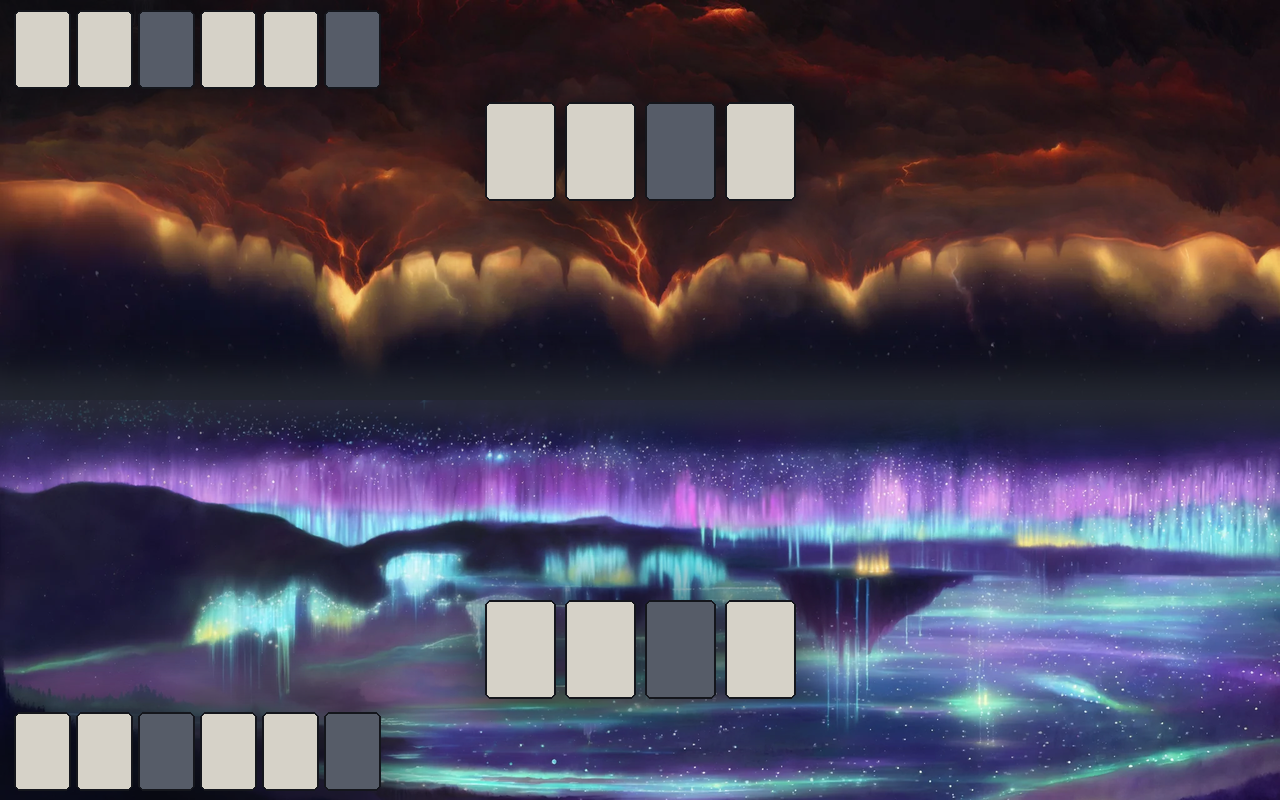
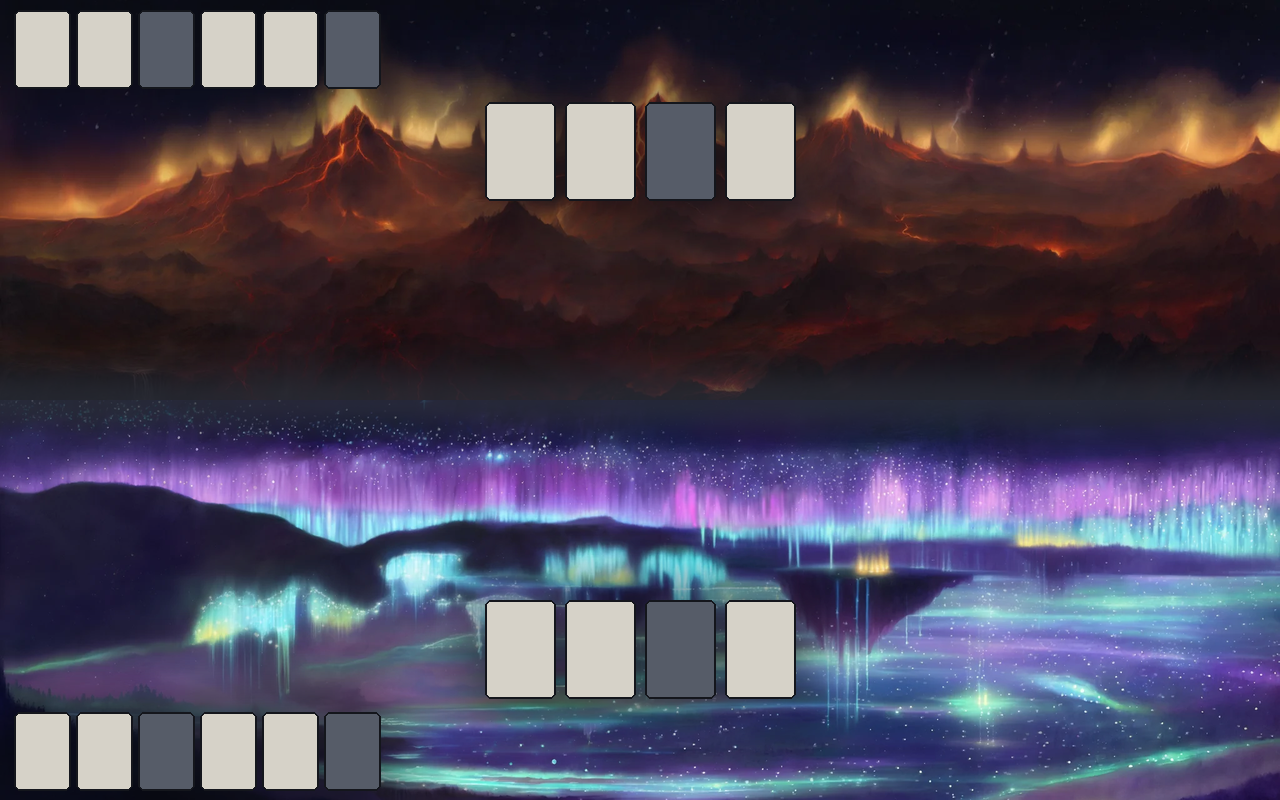
PC: pack-v3 live (half-board halves), screenshots

Changed region(s): [[0.0, 0.0, 1.0, 0.5], [0.4688, 0.4375, 0.5, 0.4688]]

diff --git a/HEARTBEAT.md b/HEARTBEAT.md
@@ -246,3 +246,10 @@ Started tonight from the final-r2 masters: desktop halves cut 16:5 (2048x640 + 2
 
 ### 2026-10-07 00:40 — PC: pack-v3 progress — island halves done; one spec question (pack size cap)
 Island's desktop halves (16:5, 2048x640 + 4096x1280) and phone halves (4:5 by outpainting, 1024x1280 + 2x) exist; all five biomes' desktop halves and re-cut loops exist; forest/mountain/swamp/plains phone halves are rendering (~10 min each). Early screenshots in `art/pack-v3/` (NOTE: the opponent half in these first mock-ups is flipped vertically by mistake — the shipped layout is both halves UPRIGHT with the mist seam, per §5; corrected mock-ups follow). **Size:** v2 is 23 MB; the halves add ~4-5 MB per biome, so v3 lands near 40 MB with a 1536x1920 phone @2x (45-50 MB at 2048x2560). Please say the cap for 1.5 (I am targeting ~40 MB, about 8 MB per biome as you suggested). Phone halves carry no loop (a still is lighter and the wide loop would show only its middle third).
+
+### 2026-10-07 02:10 — PC: pack-v3 is LIVE — https://cdn.jsdelivr.net/gh/jalirkan/forgecoach-scenery@pack-v3/pack/ (half-board halves for every stage; 33.4 MB)
+- Each stage gains a `half` block beside its unchanged strip entry: `half: { src, src2x (16:5: 2048x640 / 4096x1280), aspect 3.2, phone: { src, src2x (4:5: 1024x1280 / 1536x1920), aspect 0.8 }, subjectBand: [0.35, 0.60], video (stage 4 only: src, fallback, poster, blend), bytes }`. Phone halves are outpainted from the masters (sky above, calm ground/water below, the master kept sharp in the middle band). Loops re-cut to 16:5 at 1280x400; phones get no loop. Manifest still says spec "1.4" and validates 0/0 on today's client (#ambience "Loaded … pack v3 … Accents: …"); rename the block as 1.5 prefers and I will re-export.
+- Sizes: island 6.30 / forest 5.33 / mountain 4.92 / swamp 4.60 / plains 6.50 MB (halves 1.7-2.7 MB of each), accents 0.6-2.0 MB per biome, **33.4 MB total**, largest file 1.0 MB. Every biome under 8 MB.
+- Rule written into README: both halves are drawn UPRIGHT, at most mirrored left-right, with the mist seam along the centre; never flipped vertically.
+- Mock-ups of the half layout (client not built yet) and two live strip-layout screenshots are in `art/pack-v3/`. Known soft spots in the phone frames: forest stage 1 shows a horizontal edge where the outpainted sky meets the treetops; mountain stages 1-2 grew busy pink/orange crags in the foreground — one re-roll each if wanted.
+- pack-v2 stays the default until you point the client at v3.
